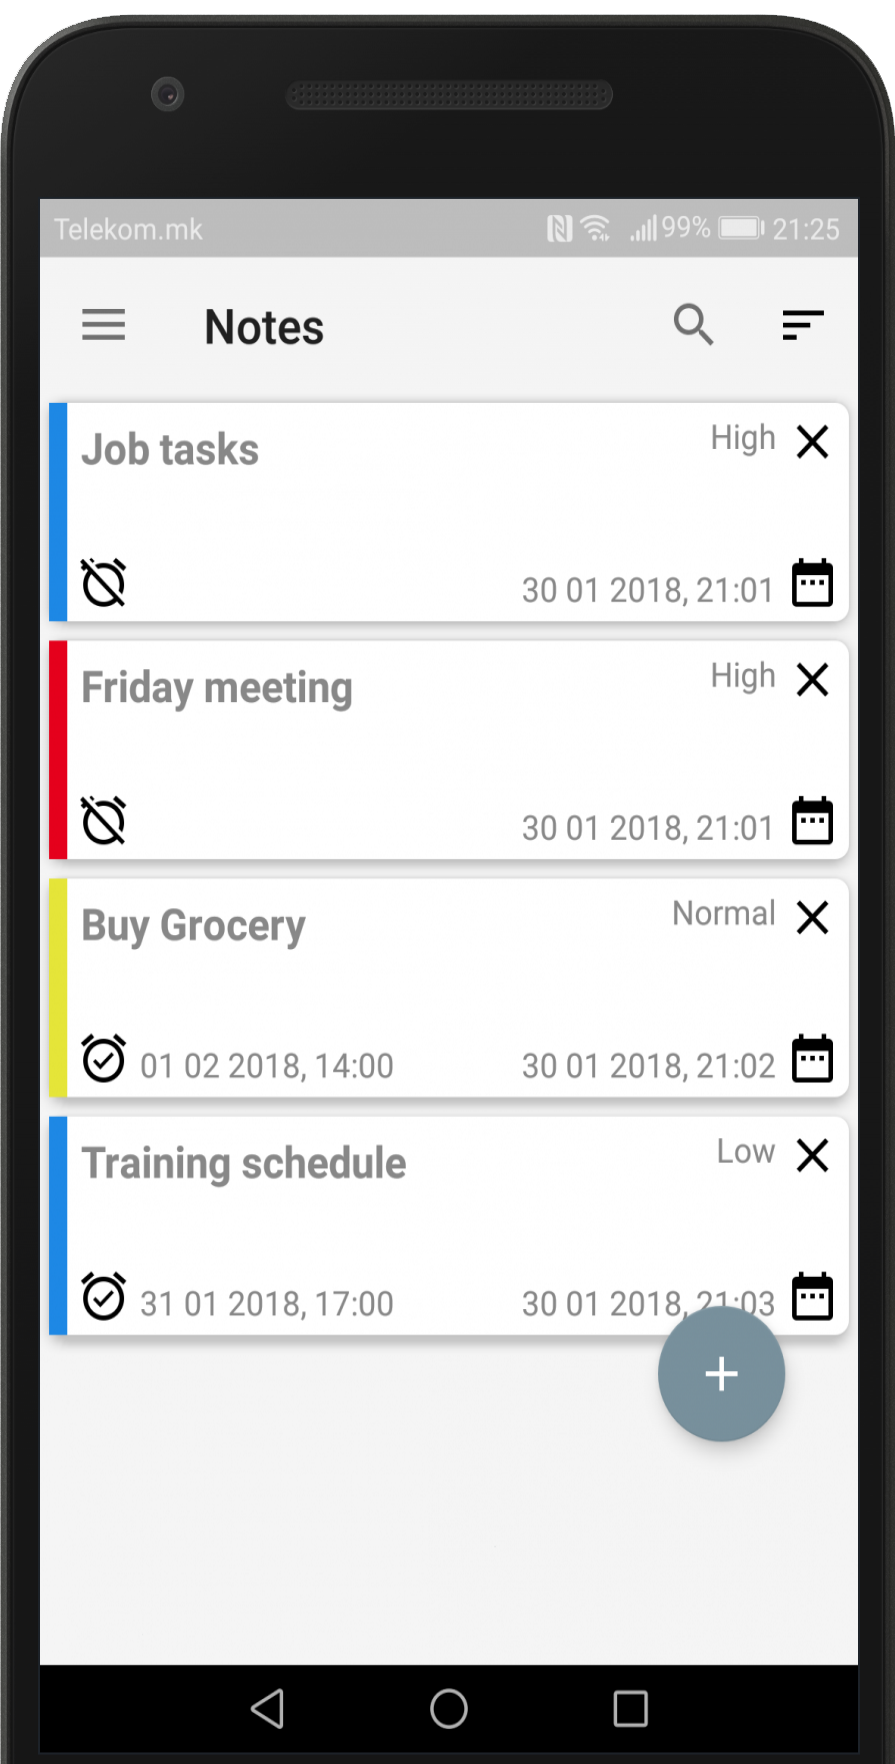
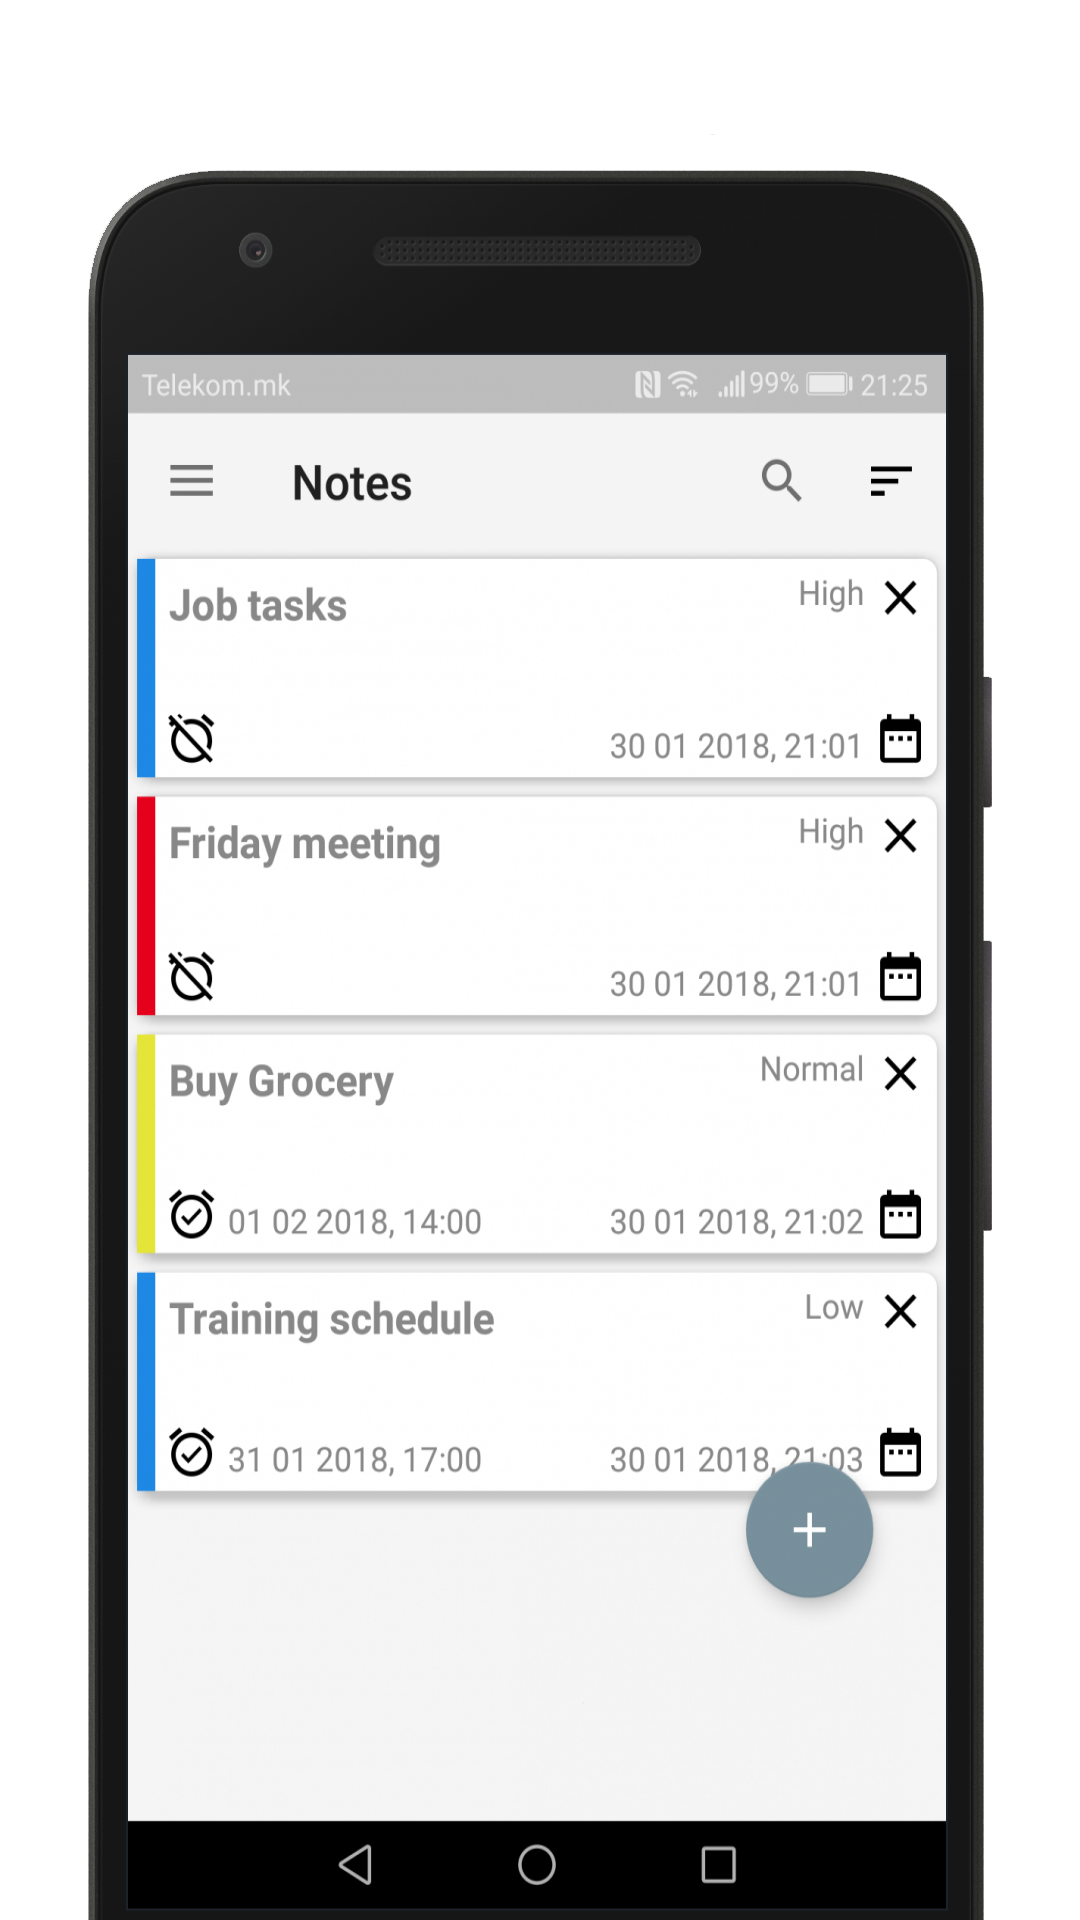
notes v3

diff --git a/public/parts/notes.html b/public/parts/notes.html
@@ -9,6 +9,7 @@
         <script src="https://maxcdn.bootstrapcdn.com/bootstrap/3.3.7/js/bootstrap.min.js" integrity="sha384-Tc5IQib027qvyjSMfHjOMaLkfuWVxZxUPnCJA7l2mCWNIpG9mGCD8wGNIcPD7Txa" crossorigin="anonymous"></script>
         <link href="https://fonts.googleapis.com/css?family=Roboto:200,300,400" rel="stylesheet">
         <script src="../main.js"></script>
+        <title>Notes</title>
     </head>
     <body>
         <div class="notes-app">
@@ -40,7 +41,7 @@
                         <h2 class='screens'>Screens</h2>
                         <div class="col-md-12">
                             <div class="images col-md-3 col-sm-6 col-xs-6">
-                                <img class="img-responsive left unvis" src="../img/ss1.png" alt="note">
+                                <img class="img-responsive left unvis" src="../img/1.png" alt="note">
                             </div>
                             <div class="images col-md-3 col-sm-6 col-xs-6">
                                 <img class="img-responsive left unvis" src="../img/3.png" alt="note">
